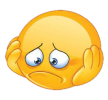
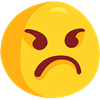
new emojies

diff --git a/care-bear/.svelte-kit/ambient.d.ts b/care-bear/.svelte-kit/ambient.d.ts
@@ -26,7 +26,6 @@
  * ```
  */
 declare module '$env/static/private' {
-<<<<<<< HEAD
 	export const ACSetupSvcPort: string;
 	export const ACSvcPort: string;
 	export const ALLUSERSPROFILE: string;
@@ -102,79 +101,21 @@ declare module '$env/static/private' {
 	export const SystemDrive: string;
 	export const SystemRoot: string;
 	export const TEMP: string;
-=======
-	export const NVM_INC: string;
->>>>>>> d19a6c52e5d016983472b66a8b754a15b0cc0dec
 	export const TERM_PROGRAM: string;
-	export const NODE: string;
-	export const INIT_CWD: string;
-	export const NVM_CD_FLAGS: string;
-	export const SHELL: string;
-	export const TERM: string;
-	export const npm_config_metrics_registry: string;
-	export const TMPDIR: string;
-	export const npm_config_global_prefix: string;
-	export const Apple_PubSub_Socket_Render: string;
 	export const TERM_PROGRAM_VERSION: string;
-<<<<<<< HEAD
 	export const TMP: string;
 	export const USERDOMAIN: string;
 	export const USERDOMAIN_ROAMINGPROFILE: string;
 	export const USERNAME: string;
 	export const USERPROFILE: string;
-=======
-	export const MallocNanoZone: string;
-	export const ORIGINAL_XDG_CURRENT_DESKTOP: string;
-	export const COLOR: string;
-	export const npm_config_noproxy: string;
-	export const npm_config_local_prefix: string;
-	export const USER: string;
-	export const NVM_DIR: string;
-	export const npm_config_globalconfig: string;
-	export const SSH_AUTH_SOCK: string;
-	export const __CF_USER_TEXT_ENCODING: string;
-	export const npm_execpath: string;
-	export const PATH: string;
-	export const npm_package_json: string;
-	export const npm_config_engine_strict: string;
-	export const _: string;
-	export const npm_config_userconfig: string;
-	export const npm_config_init_module: string;
-	export const npm_command: string;
-	export const PWD: string;
-	export const npm_lifecycle_event: string;
-	export const EDITOR: string;
-	export const npm_package_name: string;
-	export const LANG: string;
-	export const XPC_FLAGS: string;
->>>>>>> d19a6c52e5d016983472b66a8b754a15b0cc0dec
 	export const VSCODE_GIT_ASKPASS_EXTRA_ARGS: string;
-	export const npm_config_node_gyp: string;
-	export const npm_package_version: string;
-	export const XPC_SERVICE_NAME: string;
-	export const HOME: string;
-	export const SHLVL: string;
 	export const VSCODE_GIT_ASKPASS_MAIN: string;
-	export const npm_config_cache: string;
-	export const LOGNAME: string;
-	export const npm_lifecycle_script: string;
+	export const VSCODE_GIT_ASKPASS_NODE: string;
 	export const VSCODE_GIT_IPC_HANDLE: string;
-<<<<<<< HEAD
 	export const VSCODE_INJECTION: string;
 	export const VSCODE_NONCE: string;
 	export const windir: string;
 	export const ZES_ENABLE_SYSMAN: string;
-=======
-	export const NVM_BIN: string;
-	export const npm_config_user_agent: string;
-	export const GIT_ASKPASS: string;
-	export const VSCODE_GIT_ASKPASS_NODE: string;
-	export const DISPLAY: string;
-	export const npm_node_execpath: string;
-	export const npm_config_prefix: string;
-	export const COLORTERM: string;
-	export const NODE_ENV: string;
->>>>>>> d19a6c52e5d016983472b66a8b754a15b0cc0dec
 }
 
 /**
@@ -204,7 +145,6 @@ declare module '$env/static/public' {
  */
 declare module '$env/dynamic/private' {
 	export const env: {
-<<<<<<< HEAD
 		ACSetupSvcPort: string;
 		ACSvcPort: string;
 		ALLUSERSPROFILE: string;
@@ -280,79 +220,21 @@ declare module '$env/dynamic/private' {
 		SystemDrive: string;
 		SystemRoot: string;
 		TEMP: string;
-=======
-		NVM_INC: string;
->>>>>>> d19a6c52e5d016983472b66a8b754a15b0cc0dec
 		TERM_PROGRAM: string;
-		NODE: string;
-		INIT_CWD: string;
-		NVM_CD_FLAGS: string;
-		SHELL: string;
-		TERM: string;
-		npm_config_metrics_registry: string;
-		TMPDIR: string;
-		npm_config_global_prefix: string;
-		Apple_PubSub_Socket_Render: string;
 		TERM_PROGRAM_VERSION: string;
-<<<<<<< HEAD
 		TMP: string;
 		USERDOMAIN: string;
 		USERDOMAIN_ROAMINGPROFILE: string;
 		USERNAME: string;
 		USERPROFILE: string;
-=======
-		MallocNanoZone: string;
-		ORIGINAL_XDG_CURRENT_DESKTOP: string;
-		COLOR: string;
-		npm_config_noproxy: string;
-		npm_config_local_prefix: string;
-		USER: string;
-		NVM_DIR: string;
-		npm_config_globalconfig: string;
-		SSH_AUTH_SOCK: string;
-		__CF_USER_TEXT_ENCODING: string;
-		npm_execpath: string;
-		PATH: string;
-		npm_package_json: string;
-		npm_config_engine_strict: string;
-		_: string;
-		npm_config_userconfig: string;
-		npm_config_init_module: string;
-		npm_command: string;
-		PWD: string;
-		npm_lifecycle_event: string;
-		EDITOR: string;
-		npm_package_name: string;
-		LANG: string;
-		XPC_FLAGS: string;
->>>>>>> d19a6c52e5d016983472b66a8b754a15b0cc0dec
 		VSCODE_GIT_ASKPASS_EXTRA_ARGS: string;
-		npm_config_node_gyp: string;
-		npm_package_version: string;
-		XPC_SERVICE_NAME: string;
-		HOME: string;
-		SHLVL: string;
 		VSCODE_GIT_ASKPASS_MAIN: string;
-		npm_config_cache: string;
-		LOGNAME: string;
-		npm_lifecycle_script: string;
+		VSCODE_GIT_ASKPASS_NODE: string;
 		VSCODE_GIT_IPC_HANDLE: string;
-<<<<<<< HEAD
 		VSCODE_INJECTION: string;
 		VSCODE_NONCE: string;
 		windir: string;
 		ZES_ENABLE_SYSMAN: string;
-=======
-		NVM_BIN: string;
-		npm_config_user_agent: string;
-		GIT_ASKPASS: string;
-		VSCODE_GIT_ASKPASS_NODE: string;
-		DISPLAY: string;
-		npm_node_execpath: string;
-		npm_config_prefix: string;
-		COLORTERM: string;
-		NODE_ENV: string;
->>>>>>> d19a6c52e5d016983472b66a8b754a15b0cc0dec
 		[key: `PUBLIC_${string}`]: undefined;
 		[key: `${string}`]: string | undefined;
 	}

diff --git a/care-bear/src/routes/+layout.svelte b/care-bear/src/routes/+layout.svelte
@@ -146,11 +146,11 @@
 	<slot />
 	
 </div>
-<<<<<<< HEAD
+
 <body class="bg-cover bg-center" style="background-image: url('https://img.freepik.com/premium-photo/dreamy-ocean-coast-summer_360074-15698.jpg');">
 </body>
 
-=======
+
 
 <style>
 .light {
@@ -163,4 +163,4 @@
   color: white;
 }
 </style>
->>>>>>> d19a6c52e5d016983472b66a8b754a15b0cc0dec
+
